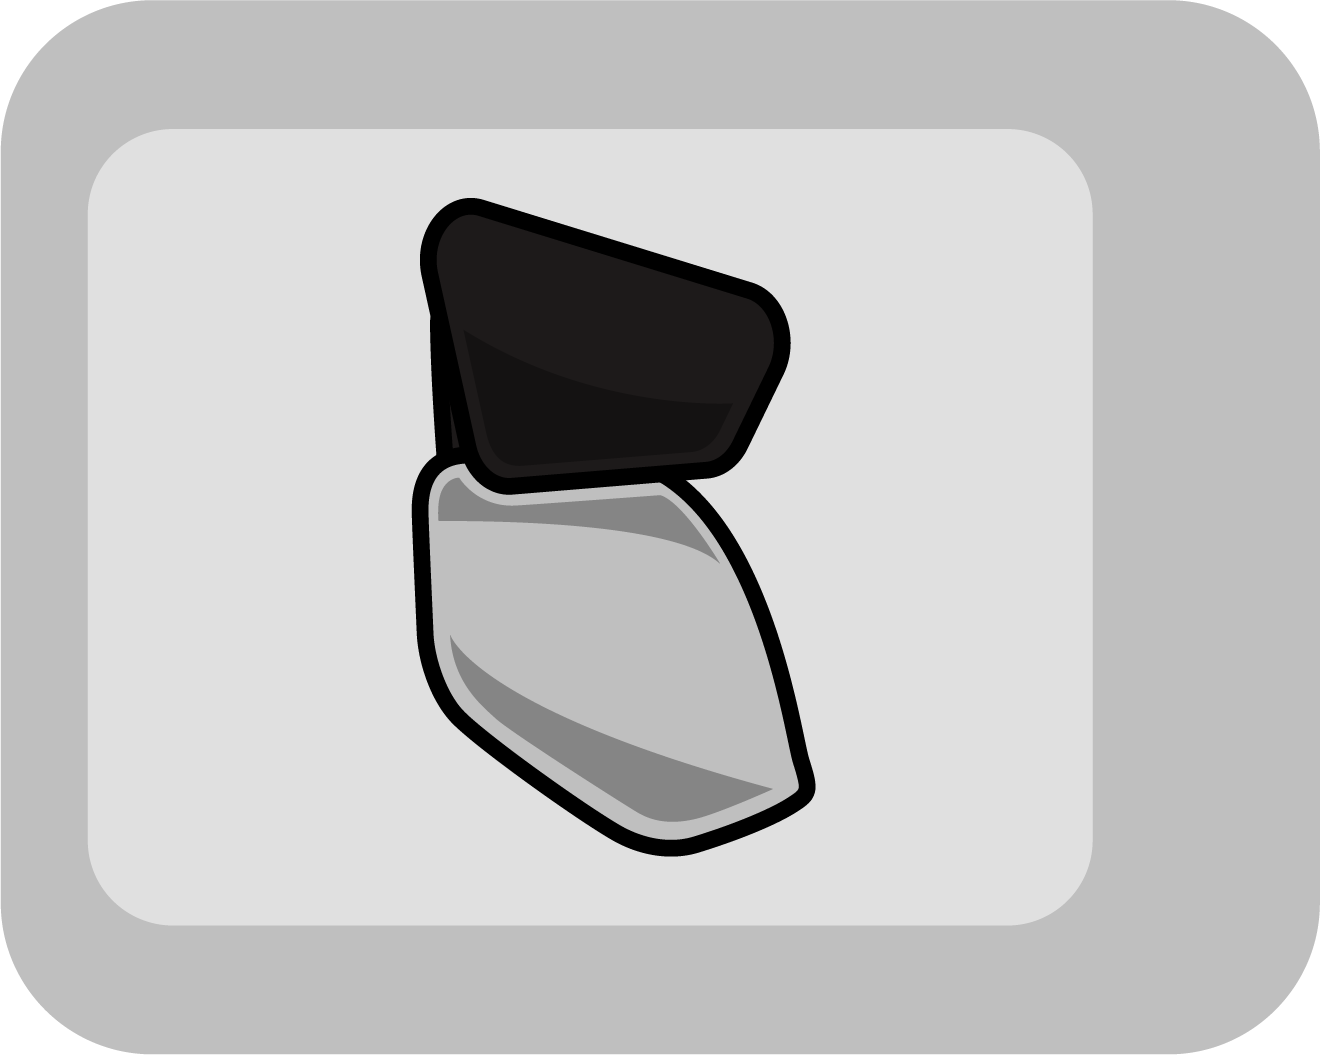
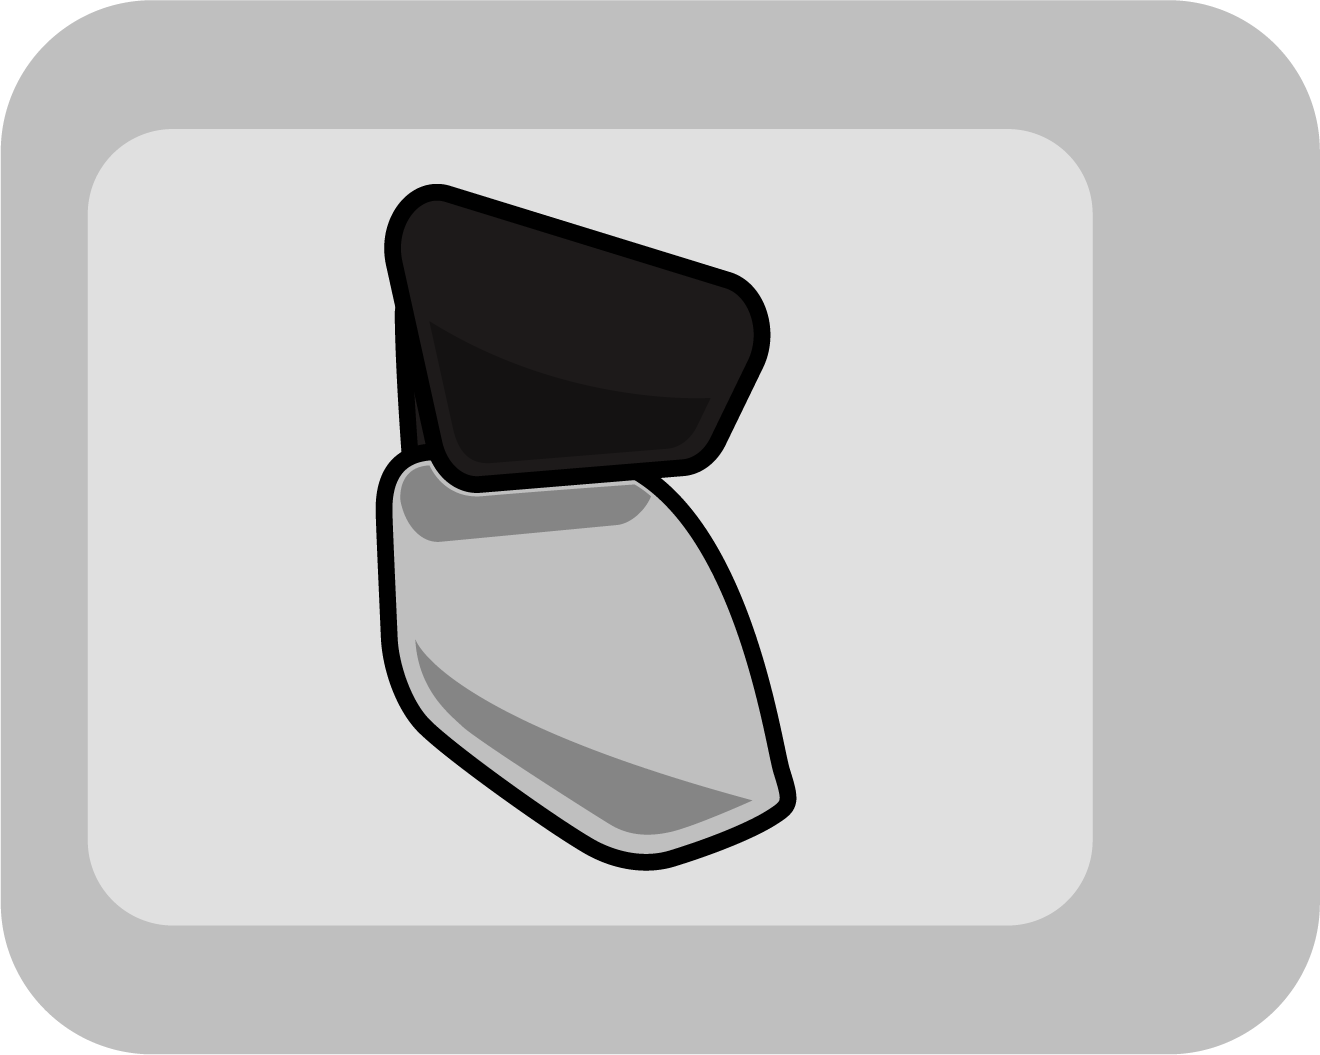
CTR2 parts done

Changed region(s): [[0.2795, 0.1517, 0.6212, 0.8493], [0.497, 0.2427, 0.5591, 0.273]]

diff --git a/paddock-car-builder/src/pages/Workshop.tsx b/paddock-car-builder/src/pages/Workshop.tsx
@@ -109,7 +109,7 @@ const generatePartOptions = (partName: string, partNumber: string, isActive: str
 
     if (activePart === partName){
         let buttons = [];
-        for (let i = 0; i <=3; i++) {
+        for (let i = 0; i <=5; i++) {
 
             const currentNumber = i.toString();
 
@@ -133,7 +133,6 @@ const generatePartOptions = (partName: string, partNumber: string, isActive: str
 
 
 return <>
-    {showLoading && <LoadingScreen/>}
     <CustomHeader/>
     <div className='container-workshop'>
         <div className='container-workshop-left'>

diff --git a/paddock-car-builder/src/pages/Garage.tsx b/paddock-car-builder/src/pages/Garage.tsx
@@ -15,7 +15,7 @@ useEffect(() => {
     // Hide LoadingScreen after specified time
     const timeoutId = setTimeout(() => {
         setShowLoading(false);
-    }, 300)
+    }, 0)
 
     // Empty timeout after hiding component
     return () => clearTimeout(timeoutId);
@@ -23,7 +23,7 @@ useEffect(() => {
 
 
 return <div>
-    {showLoading && <LoadingScreen/>}
+    
     <CustomHeader/>
     <div className='container-garage'>
         <div className='container-garage-wall'>
